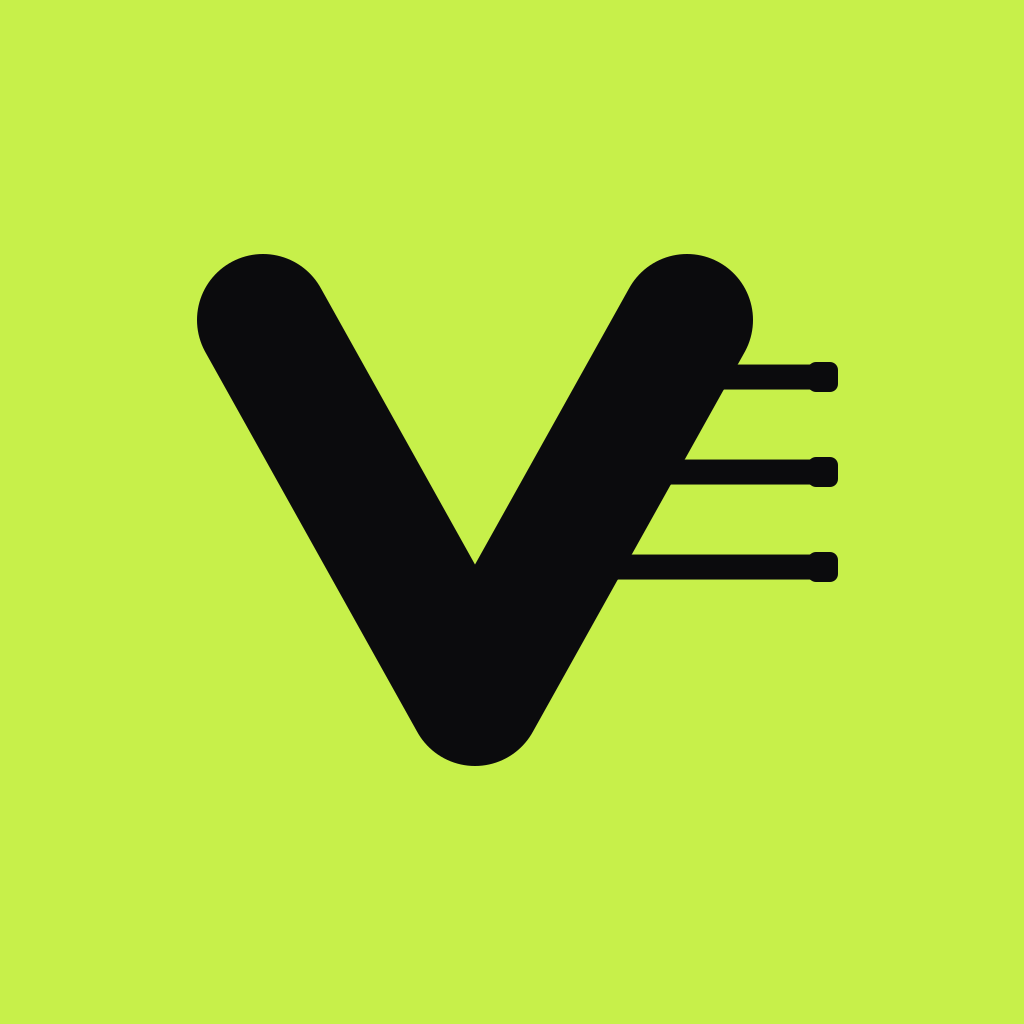
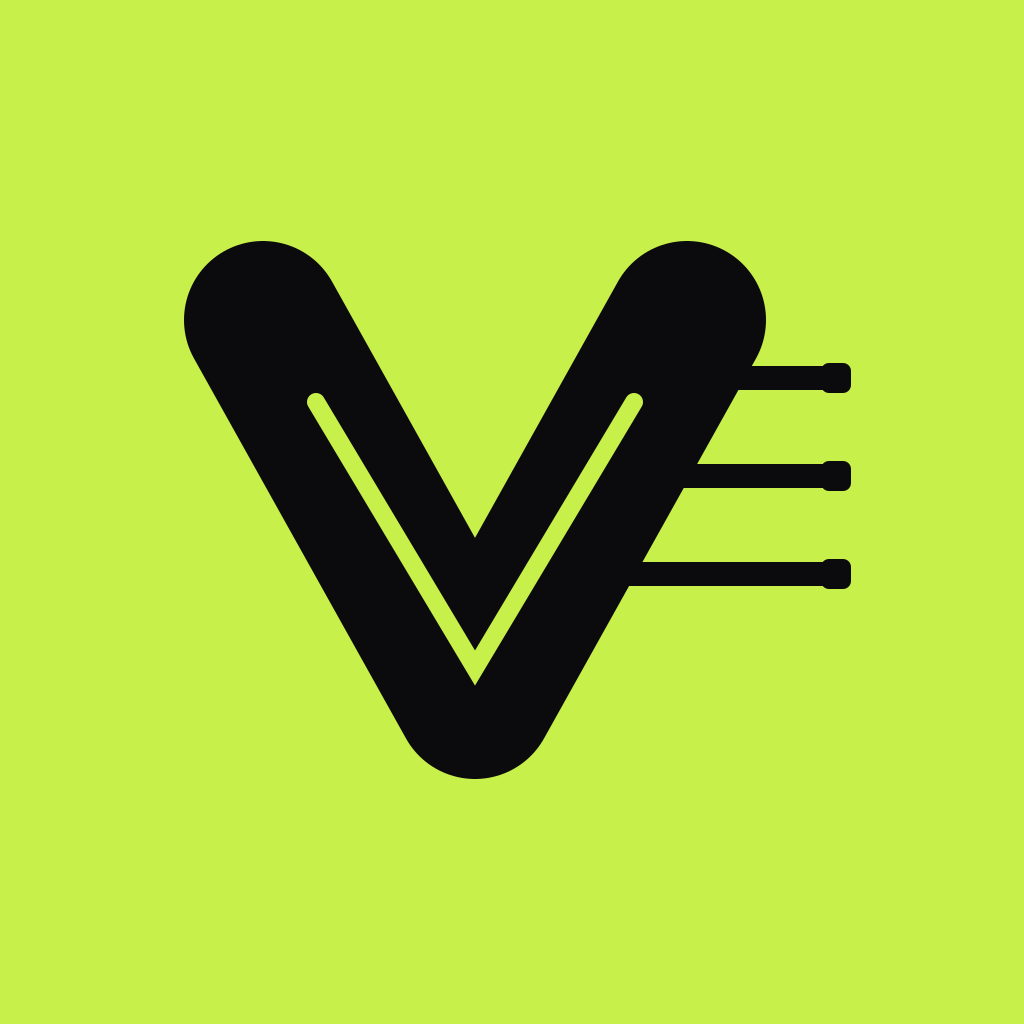
brand: route-V mark with lane marking, plus inverted variant
Push the mark past generic app-icon territory: the V is now a route (bold spine with a lane marking) that feeds a three-port bank, on a strict grid. Avenir Next lowercase wordmark. Added assets/mark-inverted.svg for dark tiles.

diff --git a/README.md b/README.md
@@ -1,5 +1,5 @@
 <p align="center">
-  <img src="assets/mark.svg" alt="Vector" width="120">
+  <img src="assets/mark.svg" alt="vector" width="132">
 </p>
 
 # vector
